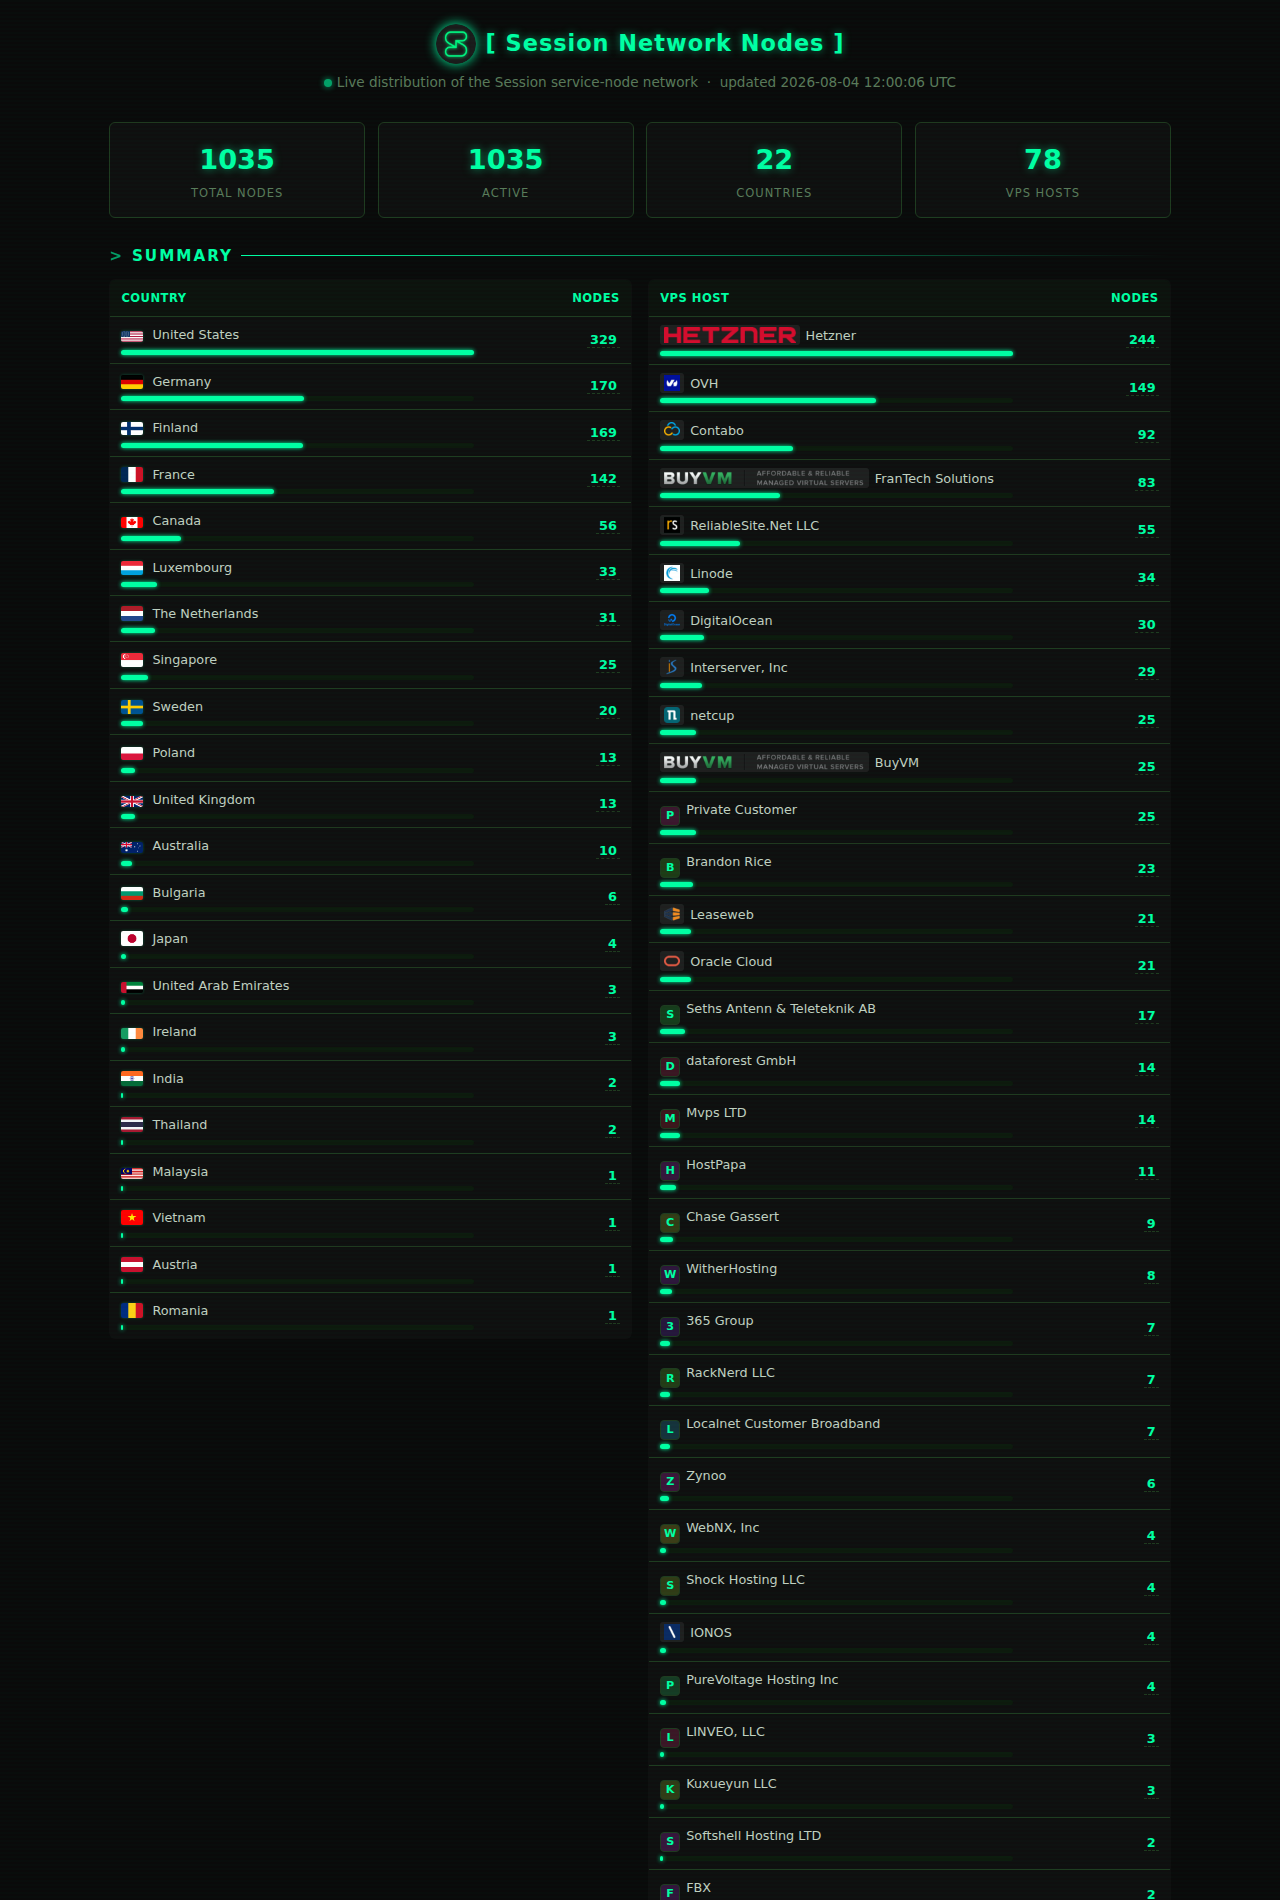
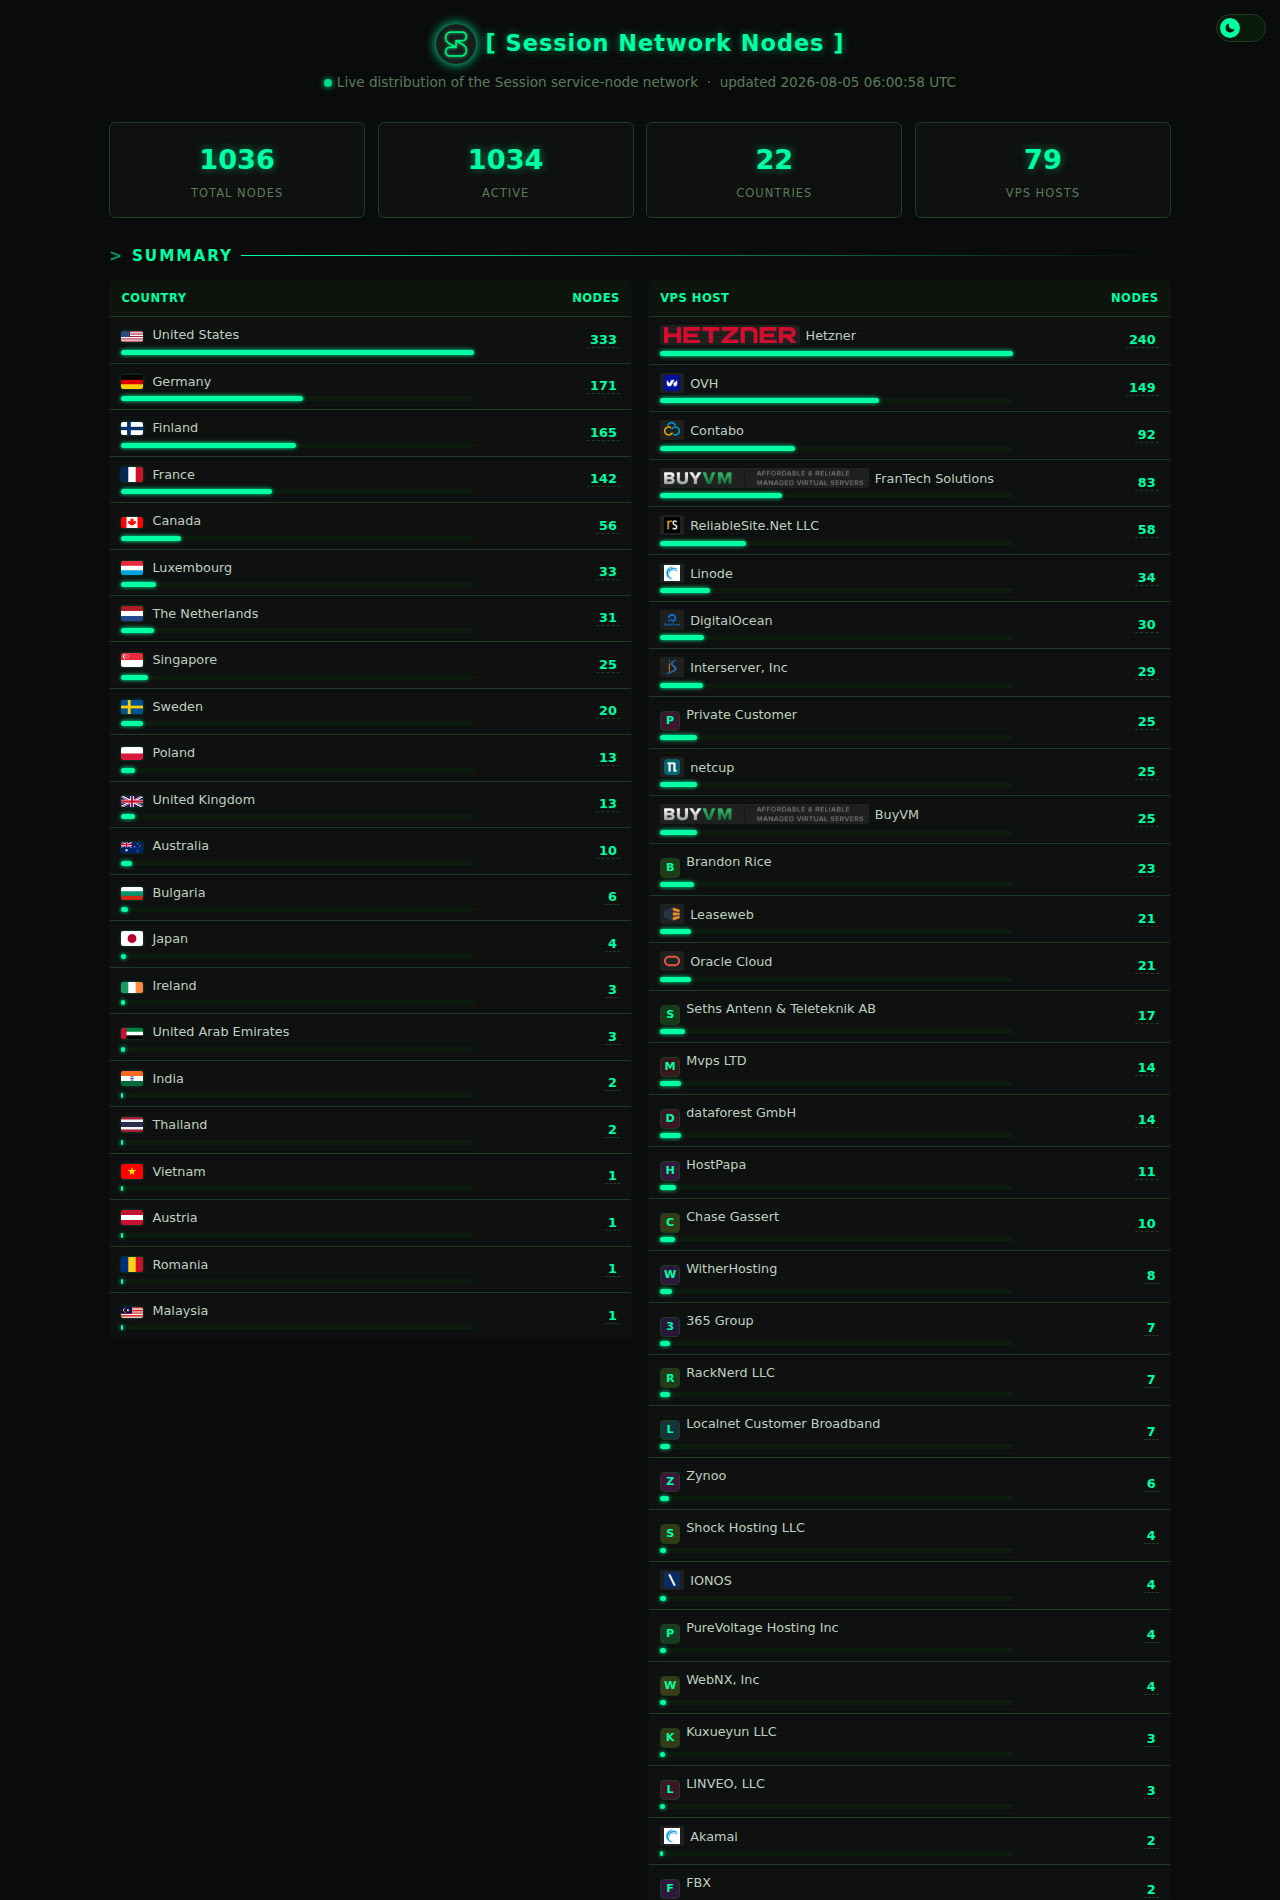
Add dark/light theme toggle (shared preference with main site)

diff --git a/index.html b/index.html
@@ -10,9 +10,19 @@
     *, *::before, *::after { box-sizing: border-box; margin: 0; padding: 0; }
     :root {
       --bg:#0a0a0a; --surface:#0f0f0f; --border:#1f3a1f;
-      --text:#c0d0c0; --muted:#5a7a5a; --accent:#00ffa3;
-      --code-bg:#0d120d; --btn-bg:#151f15; --btn-hover:#1f2f1f;
+      --text:#c0d0c0; --muted:#5a7a5a;
+      --accent:#00ffa3; --code-bg:#0d120d;
+      --btn-bg:#151f15; --btn-hover:#1f2f1f;
       --glow:0 0 8px #00ffa380; --danger:#ff5555;
+      --bar-bg:#0d1a0d; --chip:rgba(255,255,255,.07); --tile-l:16%;
+    }
+    .light {
+      --bg:#f5faf5; --surface:#fff; --border:#d0e0d0;
+      --text:#1a2a1a; --muted:#5a7a5a;
+      --accent:#00a86b; --code-bg:#eef5ee;
+      --btn-bg:#dce8dc; --btn-hover:#ccdccc;
+      --glow:none; --danger:#c0392b;
+      --bar-bg:#e4efe4; --chip:rgba(0,0,0,.06); --tile-l:82%;
     }
     body {
       font-family:-apple-system, BlinkMacSystemFont, 'Segoe UI', Roboto, Helvetica, Arial, sans-serif;
@@ -70,7 +80,7 @@
     #hostTable th:last-child, #hostTable td:last-child { width:28%; }
     .bar { height:5px; background:var(--accent); border-radius:3px; box-shadow:0 0 4px var(--accent); min-width:2px; }
     .barcell { display:flex; align-items:center; gap:8px; }
-    .barwrap { flex:1; background:#0d1a0d; border-radius:3px; min-width:40px; }
+    .barwrap { flex:1; background:var(--bar-bg); border-radius:3px; min-width:40px; }
     .count { color:var(--accent); font-variant-numeric:tabular-nums; text-align:right; font-weight:600; }
 
     .tablewrap { max-height:520px; overflow:auto; border:1px solid var(--border); border-radius:6px; }
@@ -82,7 +92,7 @@
     a:hover { text-decoration:underline; }
     .muted { color:var(--muted); }
     .flag { width:22px; height:auto; vertical-align:-3px; border-radius:2px; margin-right:5px; box-shadow:0 0 3px rgba(0,255,163,.3); }
-    .hlogo { height:20px; width:auto; vertical-align:-5px; margin-right:6px; background:rgba(255,255,255,.07); border-radius:3px; padding:2px 4px; }
+    .hlogo { height:20px; width:auto; vertical-align:-5px; margin-right:6px; background:var(--chip); border-radius:3px; padding:2px 4px; }
     .tile { display:inline-flex; align-items:center; justify-content:center; width:20px; height:20px; border-radius:4px; color:var(--accent); font-size:.7rem; font-weight:700; vertical-align:-5px; margin-right:6px; border:1px solid var(--border); }
     .copyable { cursor:pointer; border-bottom:1px dashed var(--border); transition:color .15s, border-color .15s; }
     .copyable:hover { color:var(--accent); border-color:var(--accent); }
@@ -95,6 +105,13 @@
     .search:focus { border-color:var(--accent); }
     .meta { font-size:.75rem; color:var(--muted); }
     .nodata { text-align:center; padding:2rem; color:var(--muted); }
+
+    .theme-toggle { position:fixed; top:14px; right:14px; z-index:1000; display:flex; align-items:center; cursor:pointer; user-select:none; }
+    .theme-track { width:50px; height:28px; border-radius:14px; background:#0a1a0a; position:relative; transition:background .3s; border:1px solid var(--border); }
+    .theme-thumb { position:absolute; top:3px; left:3px; width:20px; height:20px; border-radius:50%; background:var(--accent); transition:transform .3s; display:flex; align-items:center; justify-content:center; overflow:hidden; }
+    .theme-thumb svg { width:12px; height:12px; fill:#0d1a0d; }
+    .theme-toggle.light .theme-track { background:#1a2a1a; border-color:var(--accent); }
+    .theme-toggle.light .theme-thumb { transform:translateX(22px); }
 
     @media (max-width:560px) {
       .wrap { padding:1rem .7rem 2.5rem; }
@@ -118,6 +135,9 @@
   </style>
 </head>
 <body>
+<div class="theme-toggle" id="themeToggle" onclick="toggleTheme()" role="switch" aria-checked="false">
+  <span class="theme-track"><span class="theme-thumb"><svg viewBox="0 0 24 24"><path d="M21 12.8A9 9 0 1 1 11.2 3a7 7 0 0 0 9.8 9.8z"/></svg></span></span>
+</div>
 <div class="scanline"></div>
 <div class="wrap">
   <header>
@@ -182,6 +202,27 @@
 let DATA = { countries: [], hosts: [], nodes: [] };
 let sortKey = 'country', sortDir = 1, query = '';
 
+const S_ICON = '<svg viewBox="0 0 24 24"><circle cx="12" cy="12" r="5"/><g stroke="#0d1a0d" stroke-width="2" stroke-linecap="round"><path d="M12 1v3M12 20v3M4.2 4.2l2.1 2.1M17.7 17.7l2.1 2.1M1 12h3M20 12h3M4.2 19.8l2.1-2.1M17.7 6.3l2.1-2.1"/></g></svg>';
+const M_ICON = '<svg viewBox="0 0 24 24"><path d="M21 12.8A9 9 0 1 1 11.2 3a7 7 0 0 0 9.8 9.8z"/></svg>';
+
+(function() {
+  const d = document.documentElement, t = document.getElementById('themeToggle');
+  const thumb = t.querySelector('.theme-thumb'), isLight = localStorage.theme === 'light';
+  if (isLight) { d.classList.add('light'); t.classList.add('light'); }
+  thumb.innerHTML = isLight ? S_ICON : M_ICON;
+  t.setAttribute('aria-checked', isLight);
+})();
+
+function toggleTheme() {
+  const d = document.documentElement, t = document.getElementById('themeToggle');
+  const thumb = t.querySelector('.theme-thumb');
+  d.classList.toggle('light'); t.classList.toggle('light');
+  const isLight = d.classList.contains('light');
+  localStorage.theme = isLight ? 'light' : 'dark';
+  thumb.innerHTML = isLight ? S_ICON : M_ICON;
+  t.setAttribute('aria-checked', isLight);
+}
+
 function flag(cc) {
   if (!cc || cc.length !== 2) return '<span class="muted">—</span>';
   const c = cc.toLowerCase();
@@ -233,7 +274,7 @@ function hostIcon(host) {
   if (key) return `<img class="hlogo" src="logos/${key}.png" alt="" title="${esc(host)}" loading="lazy" onerror="this.remove()">`;
   let hue = 0;
   for (let i = 0; i < host.length; i++) hue = (hue * 31 + host.charCodeAt(i)) % 360;
-  return `<span class="tile" style="background:hsl(${hue},45%,16%)" title="${esc(host)}">${esc((host[0] || '?').toUpperCase())}</span>`;
+  return `<span class="tile" style="background:hsl(${hue},45%,var(--tile-l))" title="${esc(host)}">${esc((host[0] || '?').toUpperCase())}</span>`;
 }
 function esc(s) { return String(s ?? '').replace(/[&<>"]/g, c => ({'&':'&amp;','<':'&lt;','>':'&gt;','"':'&quot;'}[c])); }
 function ago(ts) {
